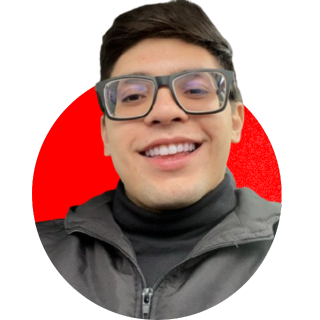
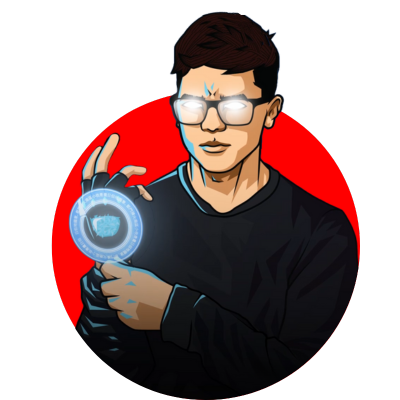
sexto commit

diff --git a/index.html b/index.html
@@ -26,7 +26,7 @@
                 </a>
             </div><!--logo-->
 
-            <nav class="menu-desktop">
+            <nav class="menu-desktop"> 
                 <ul>
                     <li><a href="#">Inicio</a></li>
                     <li><a href="#">Especialidades</a></li>
@@ -77,17 +77,38 @@
                     <div class="especialidades-box">
                         <i class="bi bi-filetype-py"></i>
                         <h3>PYTHON</h3>
-                        <P>Especialista em Python, uma das linguagens de programação mais versáteis e poderosas. Tenho experiência em desenvolver desde scripts simples até sistemas mais complexos, aplicando Python em áreas como automação, análise de dados, inteligência artificial e desenvolvimento web. Com sua sintaxe clara e bibliotecas robustas, o Python é a escolha ideal para criar soluções eficientes e escaláveis.</P>
+                        <P>Especialidade em Python, uma das linguagens de programação mais versáteis e poderosas. Tenho experiência em desenvolver desde scripts simples até sistemas mais complexos, aplicando Python em áreas como automação, análise de dados, inteligência artificial e desenvolvimento web. Com sua sintaxe clara e bibliotecas robustas, o Python é a escolha ideal para criar soluções eficientes e escaláveis.</P>
                     </div><!--especialidades-box-->
                     <div class="especialidades-box">
                         <i class="bi bi-filetype-js"></i>
                         <h3>JAVASCRIPT</h3>
-                        <P>Especialista em JavaScript, uma das linguagens essenciais para o desenvolvimento web. Com o JavaScript, consigo criar interatividade e dinamismo nas páginas, seja para manipulação de DOM, requisições assíncronas ou desenvolvimento de aplicações web complexas. Tenho experiência em frameworks como React e Node.js, utilizando as melhores práticas para garantir código limpo, eficiente e escalável.</P>
+                        <P>Especialidade em JavaScript, uma das linguagens essenciais para o desenvolvimento web. Com o JavaScript, consigo criar interatividade e dinamismo nas páginas, seja para manipulação de DOM, requisições assíncronas ou desenvolvimento de aplicações web complexas. Tenho experiência em frameworks como React e Node.js, utilizando as melhores práticas para garantir código limpo, eficiente e escalável.</P>
                     </div><!--especialidades-box-->
                 </div><!--flex-->
 
             </div>
-        </section>
+        </section> <!--especialidades-->
+
+        <section class="sobre">
+            <div class="interface">
+                <div class="flex">
+                    <div class="img-sobre">
+                        <img src="images/foto_sobre_mim.png" alt="foto flutuante pedrotxdev">
+                    </div><!--img-sobre-->
+
+                    <div class="txt-sobre">
+                        <h2>PRAZER, ME CHAMO <span>PEDRO TEIXEIRA.</span></h2>
+                        <p>Sou um entusiasta da tecnologia e estudante de Engenharia de Software especializado em HTML, JavaScript e Python. Amo resolver problemas com código e transformar ideias em soluções práticas e eficientes.</p>
+                        <p>Minha paixão pela programação vai além da teoria, sempre buscando aplicar o que aprendo em projetos que impactam de forma positiva o dia a dia. Estou constantemente aprimorando minhas habilidades e explorando novas tecnologias para acompanhar o ritmo da área de TI.</p>
+                        <div class="btn-social">
+                            <a href="https://www.instagram.com/xpedrotx/"><button><i class="bi bi-instagram"></i></button></a>
+                            <a href="https://x.com/xpedrotx"><button><i class="bi bi-twitter"></i></button></a>
+                            <a href="https://github.com/xpedrotx"><button><i class="bi bi-github"></i></button></a>
+                        </div>
+                    </div><!--txt-sobre-->
+                </div><!--flex-->
+            </div><!--interface-->
+        </section><!--sobre-->
     </main>
     
     <footer>

diff --git a/style.css b/style.css
@@ -41,6 +41,11 @@ h2.titulo span{
   color: red;
 }
 
+button:hover{
+  box-shadow: 0px 0px 8px red;
+  transform: scale(1.05);
+}
+
 /* ESTILO DO CABEÇALHO */
 header .logo img {
   max-width: 200px; /* Limita a largura da logo */
@@ -76,11 +81,6 @@ header nav ul{
 header nav ul li{
   display: inline-block;
   padding: 0 40px;
-}
-
-.btn-contato button:hover{
-  box-shadow: 0px 0px 8px red;
-  transform: scale(1.05);
 }
 
 /* ESTILO DO TOPO DO SITE */
@@ -219,4 +219,46 @@ section.especialidades .flex{
 .especialidades .especialidades-box h3{
   font-size: 28px;
   margin: 15px 0;
+}
+
+/* ESTILO DO SOBRE MIM */
+section.sobre{
+  padding: 80px 4%;
+}
+
+section.sobre .flex{
+  align-items: center;
+  gap: 40px;
+}
+
+.sobre .txt-sobre{
+  color: white;
+}
+
+.sobre .txt-sobre h2{
+  font-size: 40px;
+  line-height: 40px;
+  margin-bottom: 30px;
+}
+
+.sobre .txt-sobre h2 span{
+  color: red;
+  display: block;
+}
+
+.sobre .txt-sobre p{
+  margin: 20px 0;
+  text-align: justify;
+}
+
+.sobre .txt-sobre .btn-social button{
+  width: 40px;
+  height: 40px;
+  border-radius: 20px;
+  border: none;
+  background-color: red;
+  font-size: 25px;
+  cursor: pointer;
+  margin: 0 10px;
+  transition: 0.2;
 }
